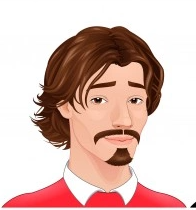
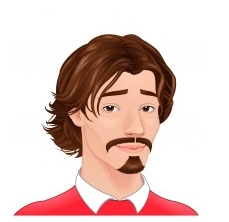
team profile added

Changed region(s): [[0.0, 0.1143, 1.0, 1.0], [0.4592, 0.7143, 0.4898, 0.7429], [0.4592, 0.2, 0.4898, 0.2286]]

diff --git a/src/components/pages/About/About.js b/src/components/pages/About/About.js
@@ -88,19 +88,59 @@ const About = () => {
         </div>
 
         <div className="custom-bottomCover"></div>
-        <div className="meet-our-team">
-          <p>Meet The Team</p>
-        </div>
 
+
+        <div calssName="meetTheTeam">
+          <h2>Meet The Team</h2></div>
         {/* //profile links #######################*/}
-        <div className="card">
-          <div className="cardImg"></div>
+        <section className="lastDiv">
 
-          <div class="container">
-            <h4><b>John Doe</b></h4>
-            <p>Architect & Engineer</p>
+
+          <div className="profileCards">
+            <div className="profileImage image1"></div>
+            <h4>Anil Bhushal</h4>
+            <p>CSC 322 || CCNY </p>
+            <a href="">LinkedIn</a>
           </div>
-        </div>
+
+          <div className="profileCards">
+            <div className="profileImage image2"></div>
+            <h4>Anthony Liang</h4>
+            <p>CSC 322 || CCNY </p>
+            <a href="">LinkedIn</a>
+
+          </div>
+
+          <div className="profileCards">
+            <div className="profileImage image3"></div>
+            <h4>David Jimenez</h4>
+            <p>CSC 322 || CCNY </p>
+            <a href="">LinkedIn</a>
+          </div>
+
+          <div className="profileCards">
+            <div className="profileImage image4"></div>
+            <h4>Moshahid Kallol</h4>
+            <p>CSC 322 || CCNY </p>
+            <a href="">LinkedIn</a>
+          </div>
+
+
+          <div className="profileCards">
+            <div className="profileImage image5"></div>
+            <h4>Nafis Khan</h4>
+            <p>CSC 322 || CCNY </p>
+            <a href="">LinkedIn</a>
+          </div>
+
+
+
+
+
+        </section>
+
+
+
 
 
 
@@ -116,7 +156,10 @@ const About = () => {
 
 
       </Container >
+
     </div >
+
+
   );
 };
 

diff --git a/src/components/pages/About/About.css b/src/components/pages/About/About.css
@@ -159,18 +159,6 @@
 
 /* new cards ########################## */
 
-.profile-card{
-  height:10%;
-  width:100%;
-  background-color:brown;
-  background-position: center;
-  background-image: url('../../Photos/person1.png');
-}
-
-.cardImg{
-  
-  
-}
 
 
 
@@ -329,11 +317,86 @@
 }
 
 
-.profile-links{
- display:grid;
- grid-template-columns: 300px;
- grid-template-rows:210px 210px 80px;
+
+
+
+
+.lastDiv{
+  background-color: rgb(27, 27, 27);
+  display:flex;
+  justify-content: center;
+  flex-wrap:wrap;
+ 
+  
 }
+.profileImage
+{
+  
+  height: 150px;
+  margin-bottom: 15px;
+  background-size: cover;
+}
+
+.profileCards{
+  padding-top:20px;
+  background:white;
+  width:200px;
+  height:400px;
+  margin:10px;
+  border-radius: 15px;
+  
+}
+
+.image1{
+  background-image: url("../../Photos/person1.png");
+ 
+  width: 100%;
+  height: 50%;
+  justify-content: center;
+}
+.image2{
+  background-image: url("../../Photos/person2.png");
+ 
+  width: 100%;
+  height: 50%;
+  justify-content: center;
+}
+
+.image3{
+  background-image: url("../../Photos/person3.png");
+  
+  width: 100%;
+  height: 50%;
+  justify-content: center;
+}
+
+.image4{
+  background-image: url("../../Photos/person4.png");
+  
+  width: 100%;
+  height: 50%;
+  justify-content: center;
+}
+
+.image5{
+  background-image: url("../../Photos/person5.png");
+  
+  width: 100%;
+  height: 50%;
+  justify-content: center;
+}
+
+.profileCards a{
+  background-color:#0072B1;
+  color:white;
+  padding:10px;
+  display:block;
+  text-align:center;
+  text-decoration: none;
+  font-weight:500;
+}
+
+
 
 
 
@@ -350,6 +413,14 @@
   .custom-h1 {
     font-size: 30px;
   }
+}
+
+.profileCards:hover{
+  background-color:black;
+  color:white;
+  cursor:pointer;
+  transform:scale(1.05);
+  transition: all .6s ease;
 }
 
 /* meet the taeam banner  */
